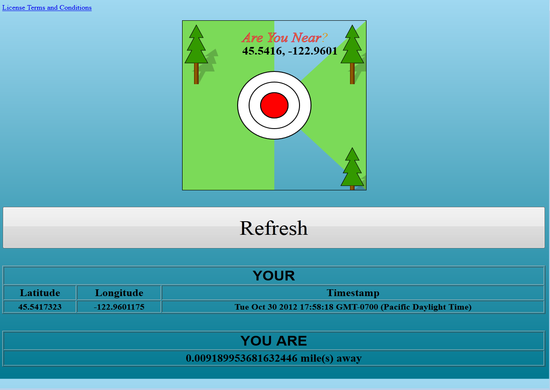
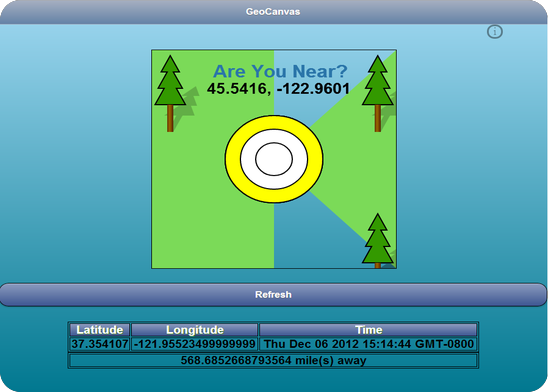
license+beautify

diff --git a/index.html b/index.html
@@ -21,6 +21,9 @@
 	<script src="jquery/jquery-1.8.0.min.js"></script> 
 	<script type="text/javascript" src="jquery/jquery.mobile-1.2.0.min.js"></script> 
 
+    <link rel="stylesheet" type="text/css" href="license.css" /> 
+    <script src="license.js"></script> 
+
 	<title>HTML5 Geo-Canvas Radar</title>
 
 	<style>
@@ -31,7 +34,23 @@
 			background-image: linear-gradient(top, #A0D8F1 0%, #017890 100%); 
 			background-image: -ms-linear-gradient(top, #A0D8F1 0%, #017890 100%); 
 		}
+        
+        body {
 
+            background-size: 100% 100%;
+            display: -webkit-box;
+            -webkit-box-align: center;
+            -webkit-box-pack: center;
+            -webkit-box-orient: vertical;
+            position: absolute;
+            overflow: auto;
+            cursor: default;
+            padding: 0px;
+            margin: 0px;
+            width: 100%;
+            height: 100%;
+        }
+        
 		#div_canvas {
 			width: 400px;
 		    height:400px;
@@ -74,54 +93,71 @@
 
 		td {
 			font: bold 20px/1 "helvetica neue", helvetica, arial, sans-serif;
-            border: 1px solid;;
+            border: 1px solid;
 		}
-	</style>
+        
+        .background {
+            background-position: center;
+        	background-repeat: no-repeat;
+            display: box;
+            box-align: center;
+            box-pack: center;
+            box-orient: vertical;
+            position: absolute;
+            cursor: default;
+            width: 100%;
+            height: 100%;
+        }
 
+	</style>
 </head>
-<body onload=widthadapter()>
-	<header data-role="header">
-		<h1>GeoCanvas Radar</h1>	
+<body onload="widthadapter()">
+    <header data-role="header" class="noBounce">
+		<h1>GeoCanvas</h1>	
 	</header>
 
-	
-	<div style="position: relative;text-align: center">
-		<a rel="LICENSE" href="http://software.intel.com/html5/license/samples" target="_blank">License Terms and Conditions</a>
-	</div>
-	
+    <div id="licensebtnl" onclick="onclickLicenseBtn()"> i </div>
 
-	<h1 id="canvas_support"> </h1>
-
-	<a id="error"> </a>	
-	<p></p>	
-
-	<div id="div_canvas">
-		<canvas id="surface" style="border: 1px solid;" width="400" height="400"> </canvas>	
-	</div>
-
-	<br>	
-		<button data-role="content" data-theme="a" id="refresh_btn" onclick="refresh_coords()">Refresh</button>
-		
-	<br>
-		<table id="geotable" class="mid_t" border="1">
-			<tr>
-				<th name="coord_plane_header">Latitude</th>
-				<th name="coord_plane_header">Longitude</th>		
-				<th name="coord_plane_header">Time</th>
-			</tr>
-			<tr>
-				<td id="latitude" align=center>?</td>
-				<td id="longitude" align=center>?</td>
-				<td id="timestamp" align=center>?</td>
-			</tr>
-		</table>	
-
-		<table id="disttable" class="mid_t" border="1">
-			<tr>
-				<td id="distn" align=center>_____ mile(s) away</td>
-			</tr>
-		</table>
-	
+    <div id="content_page" class="background" style="display:block">        
+    
+    	<a id="error"> </a>	
+    	<br> 
+    
+    	<div id="div_canvas">
+    		<canvas id="surface" style="border: 1px solid;" width="400" height="400"> </canvas>	
+    	</div>
+    
+    	<br>	
+    		<button data-role="content" data-theme="a" id="refresh_btn" onclick="refresh_coords()">Refresh</button>
+    		
+    	<br>
+    		<table id="geotable" class="mid_t" border="1">
+    			<tr>
+    				<th name="coord_plane_header">Latitude</th>
+    				<th name="coord_plane_header">Longitude</th>		
+    				<th name="coord_plane_header">Time</th>
+    			</tr>
+    			<tr>
+    				<td id="latitude" align=center>?</td>
+    				<td id="longitude" align=center>?</td>
+    				<td id="timestamp" align=center>?</td>
+    			</tr>
+    		</table>	
+    
+    		<table id="disttable" class="mid_t" border="1">
+    			<tr>
+    				<td id="distn" align=center>_____ mile(s) away</td>
+    			</tr>
+    		</table>
+    </div>
+    
+        
+    <div id="licensepage" style="display: none">
+        <div id="licensetext"></div>
+        <div id="licensebtnq" class="licensebtn" onclick="onclickLicBack()">Back</div>
+    </div>
+    
+    
 	<script src="dist-calculator.js" type="text/javascript"></script>			           
 	<script src="geocanvasradar.js" type="text/javascript"></script>			           
 

diff --git a/license.css b/license.css
@@ -1,0 +1,88 @@
+/*
+* Copyright (c) 2012, Intel Corporation. All rights reserved.
+* File revision: 16 October 2012
+* Please see http://software.intel.com/html5/license/samples 
+* and the included README.md file for license terms and conditions.
+*
+* This program is licensed under the terms and conditions of the 
+* Apache License, version 2.0.  The full text of the Apache License is at
+* http://www.apache.org/licenses/LICENSE-2.0
+*
+*/
+
+#licensebtnl {
+    position: relative;
+    width: 20px;
+    height: 20px;
+    text-align: center;
+    line-height: 20px;
+    cursor: pointer;
+    -webkit-border-radius: 20px;
+    border: solid 3px #000000;
+    opacity: 0.4;
+    color: black;
+    top: 86.7%;
+    left: 89%;
+    font-size:20px;
+}
+
+#licensebtnl:hover {
+    opacity: 1.0;
+}
+
+#licensepage {
+    width: 100%;
+    height: 100%;
+    background: -webkit-gradient(linear, left top, right top, from(#344631), to(#113008));
+    filter: progid:DXImageTransform.Microsoft.gradient(startColorstr='#344631', endColorstr='#113008'); /* for IE */
+    background: -moz-linear-gradient(top,  #344631,  #113008); /* for firefox 3.6+ */ 
+    font-size: 20%;
+}
+
+#licensetext {
+    width: 99%;
+    height: 90%;
+    position:absolute;
+    background-image: -moz-linear-gradient(top, #A0D8F1 0%, #017890 100%); 
+    background-image: -webkit-linear-gradient(top, #A0D8F1 0%, #017890 100%); 
+    background-image: -o-linear-gradient(top, #A0D8F1 0%, #017890 100%); 
+    background-image: linear-gradient(top, #A0D8F1 0%, #017890 100%); 
+    background-image: -ms-linear-gradient(top, #A0D8F1 0%, #017890 100%); 
+    -webkit-border-radius: 12px;
+    border-radius: 12px;
+    box-shadow: inset 1px 1px 2px 1px black;
+    margin-bottom: 2px;
+    overflow-y: scroll;
+}
+
+.licensebtn {
+    position: absolute;
+    color: #d7d7d7;
+    border: solid 1px #333;
+    text-align: center;
+    text-decoration: none;
+    font: 20px/100% Arial, Helvetica, sans-serif;
+    text-shadow: 0 1px 1px rgba(0,0,0,.3);
+    -webkit-border-radius: 12px;
+    border-radius: 12px;
+    background: -webkit-gradient(linear, left top, left bottom, from(#666), to(#000));
+    height: 52px;/*52px;*/
+    line-height: 48px;
+    cursor: pointer;
+    box-shadow: 2px 2px 14px #000;
+}
+
+.licensebtn:hover {
+    background: -webkit-gradient(linear, left top, left bottom, from(#444), to(#000));
+}
+
+.licensebtn:active {
+    color: #666;
+    background: -webkit-gradient(linear, left top, left bottom, from(#000), to(#444));
+}
+
+#licensebtnq {
+    opacity: 0.5;
+    left: 32%;/*412px;*/
+    width: 16%;/*200px;*/
+}

diff --git a/license.js b/license.js
@@ -1,0 +1,74 @@
+/*
+* Copyright (c) 2012, Intel Corporation. All rights reserved.
+* File revision: 5 Decmber 2012
+* Please see http://software.intel.com/html5/license/samples 
+* and the included README.md file for license terms and conditions.
+*
+* This program is licensed under the terms and conditions of the 
+* Apache License, version 2.0.  The full text of the Apache License is at
+* http://www.apache.org/licenses/LICENSE-2.0
+*
+*/
+var lictimer;
+function onclickLicBack()
+{
+    var lpage = document.getElementById("licensepage");
+    var hpage = document.getElementById("content_page");
+    hpage.style.display = "block";
+    lpage.style.display = "none";
+    if (lictimer) {
+        clearInterval(lictimer);
+        lictimer = null;
+    }
+}
+function onclickLicenseBtn() {
+    var lpage = document.getElementById("licensepage");
+    var hpage = document.getElementById("content_page");
+
+    /* display the license page, hide titleView page*/
+    hpage.style.display = "none";
+    lpage.style.display = "block";
+}
+//determines the path to the media files on the device
+function getPhoneGapPath() {
+
+    var path = window.location.pathname;
+    path = path.substr( path, path.length - 10 );
+    return path;
+
+};
+function loadLicenseTxt() {
+    if (window.device) { // running in PhoneGap
+           var path = getPhoneGapPath();
+        var licFname = path+"README.txt";
+       
+        var readRequest = new XMLHttpRequest();
+        readRequest.open("GET", licFname);
+        readRequest.onreadystatechange = function () {//Call a function when the state changes.
+            if (readRequest.readyState == 4 && readRequest.status == 200) {
+                var divLicense = document.getElementById("licensetext");
+                divLicense.innerText = readRequest.responseText;
+            }
+        }
+        readRequest.send();
+    }  else {
+        // running as web app from Browser, so use iframe to display the README.txt
+        console.log("***Test: read README.txt iframe");
+
+        var licPage = document.getElementById("licensepage");
+        var licEle = document.getElementById("licensetext");
+
+        var frmEle = document.createElement("iframe");
+
+        // Web page 
+        frmEle.setAttribute("src", "README.txt");
+
+        frmEle.style.height = window.innerHeight;
+        frmEle.style.width = window.innerWidth;
+
+        licPage.replaceChild(frmEle, licEle);
+
+        frmEle.setAttribute('id', "licensetext");
+    }
+}
+

diff --git a/geocanvasradar.js b/geocanvasradar.js
@@ -1,6 +1,6 @@
 /*
  * Copyright (c) 2012, Intel Corporation
- * File revision: 04 December 2012
+ * File revision: 04 October 2012
  * Please see http://software.intel.com/html5/license/samples 
  * and the included README.md file for license terms and conditions.
  */
@@ -31,7 +31,6 @@
 			var context = canvas.getContext('2d');
 
 			context.save();
-			
 			context.beginPath();
 			context.rect(0, 0, 200, 400); //context.rect(x, y, width, height);
 			
@@ -211,15 +210,17 @@
             var time_cell = document.getElementById("timestamp");
             var dist_cell = document.getElementById("distn");
             
+            loadLicenseTxt();
+            
 			if (screen.width < 321){
 				canvas.style.width = '170px';
     			canvas.style.height = '170px';
                 canvas_div.style.width = '170px';
                 canvas_div.style.height = '170px';                
-                lat_cell.style.font = "bold 10px/1 'helvetica neue', helvetica, arial, sans-serif";                
-                longi_cell.style.font = "bold 10px/1 'helvetica neue', helvetica, arial, sans-serif";                
-                time_cell.style.font = "bold 10px/1 'helvetica neue', helvetica, arial, sans-serif";
-                dist_cell.style.font = "bold 10px/1 'helvetica neue', helvetica, arial, sans-serif";
+                lat_cell.style.font = "bold 12px/1 'helvetica neue', helvetica, arial, sans-serif";                
+                longi_cell.style.font = "bold 12px/1 'helvetica neue', helvetica, arial, sans-serif";                
+                time_cell.style.font = "bold 12px/1 'helvetica neue', helvetica, arial, sans-serif";
+                dist_cell.style.font = "bold 12px/1 'helvetica neue', helvetica, arial, sans-serif";
                 //time_cell.style.padding = "15px";
                 //alert("width smaller than 321");
 			}		

diff --git a/dist-calculator.js b/dist-calculator.js
@@ -1,6 +1,6 @@
 /*
  * Copyright (c) 2012, Intel Corporation
- * File revision: 04 December 2012
+ * File revision: 04 October 2012
  * Please see http://software.intel.com/html5/license/samples 
  * and the included README.md file for license terms and conditions.
  */
